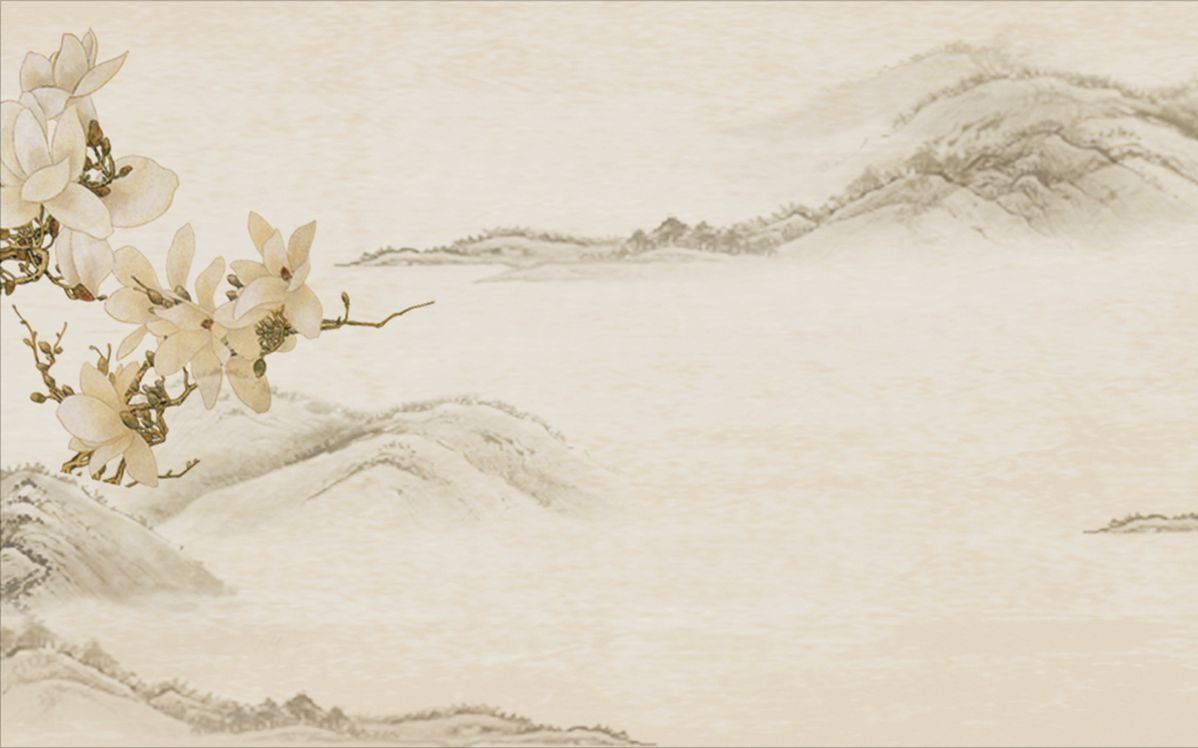
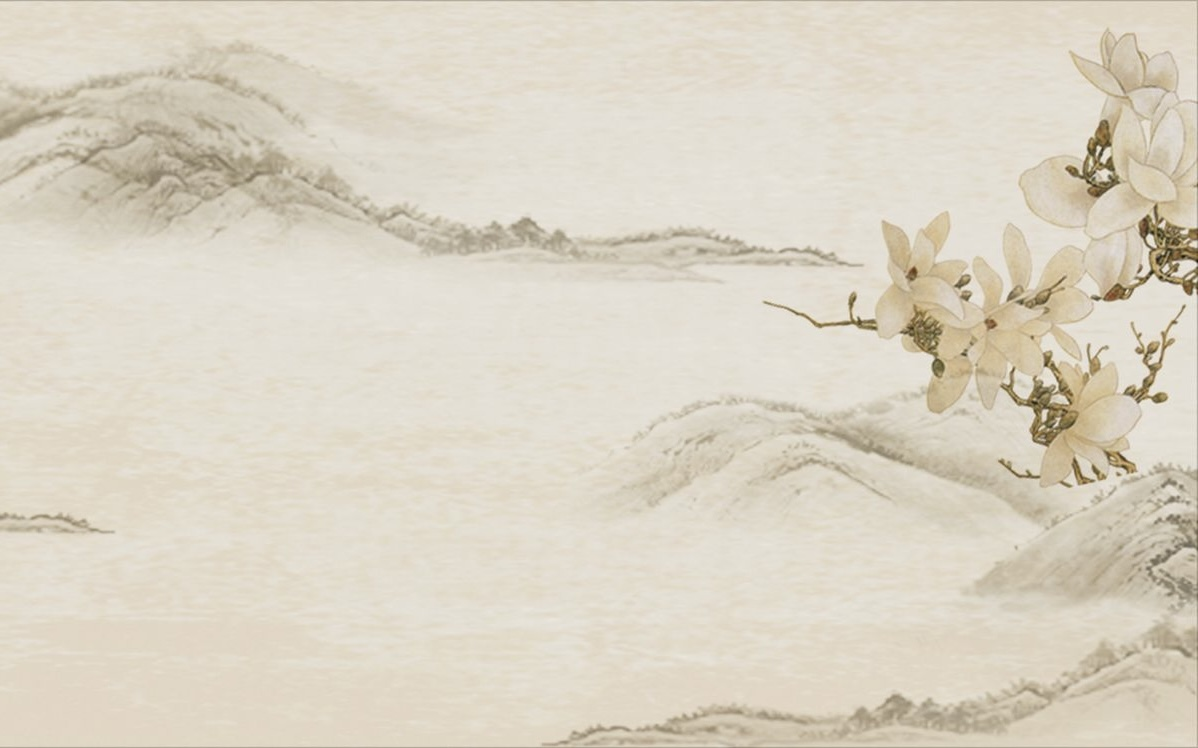
change background

Changed region(s): [[0.0, 0.0307, 1.0, 1.0], [0.2471, 0.6457, 0.278, 0.6765]]

diff --git a/public/css/login.css b/public/css/login.css
@@ -84,7 +84,7 @@ body {
     display: flex;
     flex-direction: column;
     gap: .2rem;
-    background: rgba(255, 255, 255, .10);
+    background: rgba(255, 255, 255, 0.459);
     border: 1px solid rgba(255, 255, 255, .2);
     border-radius: 16px;
     padding: .85rem 1.4rem;
@@ -94,7 +94,7 @@ body {
 }
 
 .login-glass .login-brand__signin:hover {
-    background: rgba(255, 255, 255, .18);
+    background: rgba(255, 255, 255, 0.608);
 }
 
 /* ── SOCIAL BUTTONS ── */
@@ -141,7 +141,7 @@ body {
     font-family: var(--ff-ui);
     font-size: .78rem;
     font-weight: 300;
-    color: rgba(255, 255, 255, .5);
+    color: rgb(255, 255, 255);
     margin-top: 1rem;
 }
 
